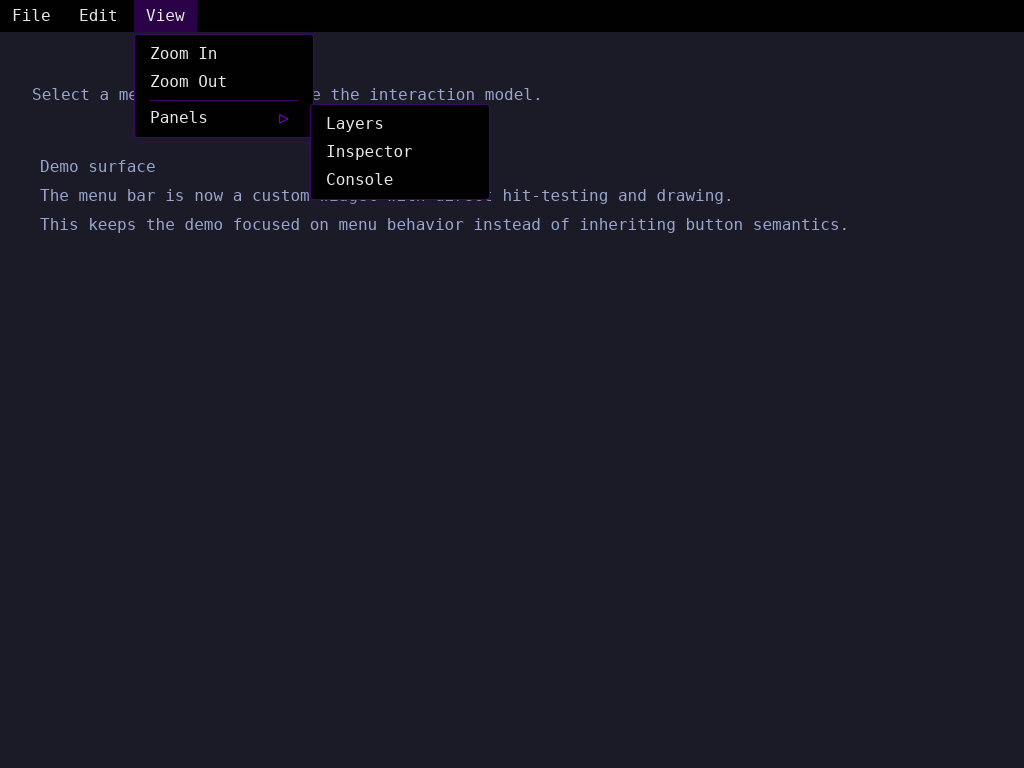
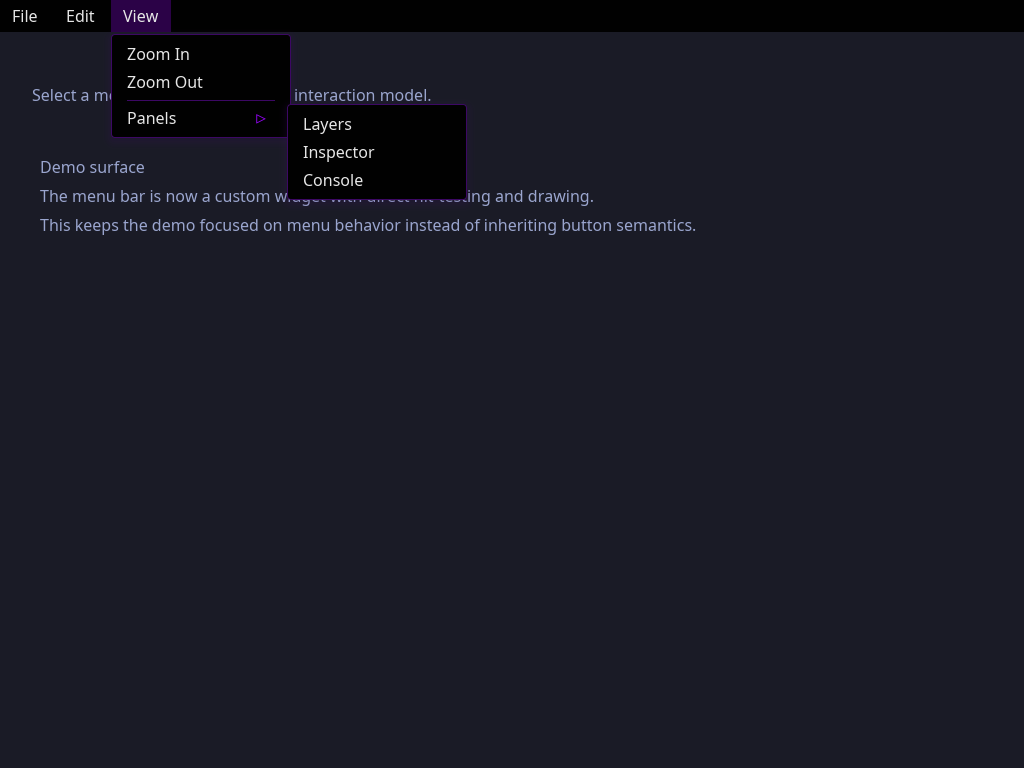
feat: MenuFontPolicy::[SystemWithFallback|Bundled]

Changed region(s): [[0.0, 0.0, 0.8125, 0.3125]]

diff --git a/src/menu/core.rs b/src/menu/core.rs
@@ -29,6 +29,13 @@ pub enum MenuMessage {
 	Close,
 }
 
+#[derive(Debug, Clone, Copy, PartialEq, Eq, Default)]
+pub enum MenuFontPolicy {
+	Bundled,
+	#[default]
+	SystemWithFallback,
+}
+
 impl MenuState {
 	pub fn update(&mut self, message: MenuMessage) -> Option<&'static str> {
 		match message {
@@ -71,11 +78,38 @@ impl MenuState {
 pub struct MenuBar<'a> {
 	roots: &'a [MenuRoot],
 	state: &'a MenuState,
+	font_policy: MenuFontPolicy,
 }
 
 impl<'a> MenuBar<'a> {
 	pub fn new(roots: &'a [MenuRoot], state: &'a MenuState) -> Self {
-		Self { roots, state }
+		Self {
+			roots,
+			state,
+			font_policy: MenuFontPolicy::SystemWithFallback,
+		}
+	}
+
+	pub fn font_policy(mut self, font_policy: MenuFontPolicy) -> Self {
+		self.font_policy = font_policy;
+		self
+	}
+
+	fn label_font<Renderer: text::Renderer<Font = iced::Font>>(
+		&self,
+		renderer: &Renderer,
+	) -> iced::Font {
+		match self.font_policy {
+			MenuFontPolicy::Bundled => MENU_FONT,
+			MenuFontPolicy::SystemWithFallback => renderer.default_font(),
+		}
+	}
+
+	fn symbol_font(&self) -> iced::Font {
+		match self.font_policy {
+			MenuFontPolicy::Bundled => MENU_FONT,
+			MenuFontPolicy::SystemWithFallback => MENU_FONT,
+		}
 	}
 }
 
@@ -93,7 +127,13 @@ where
 		renderer: &Renderer,
 		limits: &layout::Limits,
 	) -> layout::Node {
-		let geometry = MenuGeometry::new(self.roots, self.state, renderer, limits.max().width);
+		let geometry = MenuGeometry::new(
+			self.roots,
+			self.state,
+			renderer,
+			self.label_font(renderer),
+			limits.max().width,
+		);
 
 		layout::Node::new(limits.resolve(Length::Fill, Length::Shrink, geometry.size()))
 	}
@@ -108,9 +148,17 @@ where
 		cursor: mouse::Cursor,
 		viewport: &Rectangle,
 	) {
+		let label_font = self.label_font(renderer);
+		let symbol_font = self.symbol_font();
 		let widget_state = tree.state.downcast_ref::<WidgetState>();
-		let geometry = MenuGeometry::new(self.roots, self.state, renderer, layout.bounds().width)
-			.with_origin(Point::new(layout.bounds().x, layout.bounds().y));
+		let geometry = MenuGeometry::new(
+			self.roots,
+			self.state,
+			renderer,
+			label_font,
+			layout.bounds().width,
+		)
+		.with_origin(Point::new(layout.bounds().x, layout.bounds().y));
 
 		renderer.fill_quad(
 			renderer::Quad {
@@ -146,6 +194,7 @@ where
 				text_color(),
 				viewport,
 				LabelAlignment::Bar,
+				label_font,
 			);
 		}
 
@@ -210,6 +259,7 @@ where
 							text_color(),
 							viewport,
 							LabelAlignment::Panel,
+							label_font,
 						);
 
 						if matches!(item.kind, ItemKind::Submenu { .. }) {
@@ -223,6 +273,7 @@ where
 								if hovered { text_color() } else { text_muted() },
 								viewport,
 								LabelAlignment::Arrow,
+								symbol_font,
 							);
 						}
 					}
@@ -243,8 +294,14 @@ where
 		_viewport: &Rectangle,
 	) {
 		let widget_state = tree.state.downcast_mut::<WidgetState>();
-		let geometry = MenuGeometry::new(self.roots, self.state, renderer, layout.bounds().width)
-			.with_origin(Point::new(layout.bounds().x, layout.bounds().y));
+		let geometry = MenuGeometry::new(
+			self.roots,
+			self.state,
+			renderer,
+			self.label_font(renderer),
+			layout.bounds().width,
+		)
+		.with_origin(Point::new(layout.bounds().x, layout.bounds().y));
 
 		match event {
 			Event::Mouse(mouse::Event::CursorMoved { .. }) => {
@@ -462,8 +519,14 @@ where
 		_viewport: &Rectangle,
 		renderer: &Renderer,
 	) -> mouse::Interaction {
-		let geometry = MenuGeometry::new(self.roots, self.state, renderer, layout.bounds().width)
-			.with_origin(Point::new(layout.bounds().x, layout.bounds().y));
+		let geometry = MenuGeometry::new(
+			self.roots,
+			self.state,
+			renderer,
+			self.label_font(renderer),
+			layout.bounds().width,
+		)
+		.with_origin(Point::new(layout.bounds().x, layout.bounds().y));
 
 		if geometry.hit_test(cursor).is_some() {
 			mouse::Interaction::Pointer
@@ -498,6 +561,7 @@ fn draw_label<Renderer: text::Renderer<Font = iced::Font>>(
 	color: Color,
 	viewport: &Rectangle,
 	alignment: LabelAlignment,
+	font: iced::Font,
 ) {
 	let horizontal_alignment = match alignment {
 		LabelAlignment::Arrow => text::Alignment::Center,
@@ -516,7 +580,7 @@ fn draw_label<Renderer: text::Renderer<Font = iced::Font>>(
 			bounds: Size::new(bounds.width, bounds.height),
 			size: LABEL_SIZE,
 			line_height: text::LineHeight::default(),
-			font: MENU_FONT,
+			font,
 			align_x: horizontal_alignment,
 			align_y: iced::alignment::Vertical::Center,
 			shaping: text::Shaping::Basic,

diff --git a/src/menu/geometry.rs b/src/menu/geometry.rs
@@ -2,8 +2,6 @@ use iced::advanced::mouse;
 use iced::advanced::text::{self, Paragraph};
 use iced::{Pixels, Point, Rectangle, Size};
 
-use crate::fonts::MENU_FONT;
-
 use super::{MenuItem, MenuRoot, MenuState};
 
 pub const BAR_HEIGHT: f32 = 32.0;
@@ -63,17 +61,18 @@ impl<'a> MenuGeometry<'a> {
 	pub fn new<Renderer: text::Renderer<Font = iced::Font>>(
 		roots: &'a [MenuRoot],
 		state: &'a MenuState,
-		renderer: &Renderer,
+		_renderer: &Renderer,
+		label_font: iced::Font,
 		width: f32,
 	) -> Self {
-		let font = renderer.default_font();
+		let font = label_font;
 		let line_height = text::LineHeight::default();
 
 		let mut x = 0.0;
 		let mut root_geometries = Vec::with_capacity(roots.len());
 
 		for root in roots {
-			let label_width = measure_label(renderer, root.label, font, line_height);
+			let label_width = measure_label(root.label, font, line_height);
 			let item_width = label_width + BAR_ITEM_PADDING_X * 2.0;
 
 			root_geometries.push(RootGeometry {
@@ -114,7 +113,6 @@ impl<'a> MenuGeometry<'a> {
 				let panel = layout_panel(
 					current_items,
 					depth,
-					renderer,
 					font,
 					line_height,
 					Point::new(panel_x, panel_y),
@@ -227,11 +225,10 @@ pub(crate) fn submenu_items<'a>(items: &'a [MenuItem], id: &str) -> Option<&'a [
 	})
 }
 
-fn layout_panel<'a, Renderer: text::Renderer<Font = iced::Font>>(
+fn layout_panel<'a>(
 	items: &'a [MenuItem],
 	depth: usize,
-	renderer: &Renderer,
-	font: Renderer::Font,
+	font: iced::Font,
 	line_height: text::LineHeight,
 	origin: Point,
 ) -> PanelGeometry<'a> {
@@ -243,11 +240,8 @@ fn layout_panel<'a, Renderer: text::Renderer<Font = iced::Font>>(
 			MenuItem::Separator => continue,
 		};
 
-		width = width.max(
-			measure_label(renderer, label, font, line_height)
-				+ PANEL_TEXT_OFFSET * 2.0
-				+ ARROW_GUTTER,
-		);
+		width = width
+			.max(measure_label(label, font, line_height) + PANEL_TEXT_OFFSET * 2.0 + ARROW_GUTTER);
 	}
 
 	let height = items.iter().fold(PANEL_PADDING * 2.0, |height, item| {
@@ -300,13 +294,8 @@ fn layout_panel<'a, Renderer: text::Renderer<Font = iced::Font>>(
 	}
 }
 
-fn measure_label<Renderer: text::Renderer<Font = iced::Font>>(
-	_renderer: &Renderer,
-	label: &str,
-	_font: Renderer::Font,
-	line_height: text::LineHeight,
-) -> f32 {
-	let paragraph = <Renderer::Paragraph as Paragraph>::with_text(text::Text {
+fn measure_label(label: &str, font: iced::Font, line_height: text::LineHeight) -> f32 {
+	let paragraph = <iced::Renderer as text::Renderer>::Paragraph::with_text(text::Text {
 		content: label,
 		bounds: Size::new(
 			f32::INFINITY,
@@ -314,7 +303,7 @@ fn measure_label<Renderer: text::Renderer<Font = iced::Font>>(
 		),
 		size: LABEL_SIZE,
 		line_height,
-		font: MENU_FONT,
+		font,
 		align_x: text::Alignment::Left,
 		align_y: iced::alignment::Vertical::Center,
 		shaping: text::Shaping::Basic,

diff --git a/src/app/core.rs b/src/app/core.rs
@@ -1,8 +1,8 @@
-use iced::widget::{Space, column, container, row, stack, text};
+use iced::widget::{column, container, row, stack, text, Space};
 use iced::{Alignment, Element, Length, Task, Theme};
 
-use crate::fonts::{DEJAVU_SANS_MONO, MENU_FONT};
-use crate::menu::{MenuBar, MenuItem, MenuMessage, MenuRoot, MenuState};
+use crate::fonts::DEJAVU_SANS_MONO;
+use crate::menu::{MenuBar, MenuFontPolicy, MenuItem, MenuMessage, MenuRoot, MenuState};
 
 const FILE_MENU: &[MenuItem] = &[
 	MenuItem::Action {
@@ -129,7 +129,6 @@ pub fn run() -> iced::Result {
 		.title("menuton")
 		.antialiasing(true)
 		.font(DEJAVU_SANS_MONO)
-		.default_font(MENU_FONT)
 		.theme(theme)
 		.run()
 }
@@ -147,7 +146,9 @@ fn update(demo: &mut Demo, message: Message) -> Task<Message> {
 }
 
 fn view(demo: &Demo) -> Element<'_, Message> {
-	let menu: Element<'_, MenuMessage> = MenuBar::new(MENUS, &demo.menu_state).into();
+	let menu: Element<'_, MenuMessage> = MenuBar::new(MENUS, &demo.menu_state)
+		.font_policy(MenuFontPolicy::SystemWithFallback)
+		.into();
 	let menu = menu.map(Message::Menu);
 
 	let status = text(match demo.last_action {

diff --git a/src/menu/mod.rs b/src/menu/mod.rs
@@ -4,6 +4,6 @@ mod interaction;
 mod model;
 mod state;
 
-pub use core::{MenuBar, MenuMessage};
+pub use core::{MenuBar, MenuFontPolicy, MenuMessage};
 pub use model::{MenuItem, MenuRoot};
 pub use state::MenuState;
